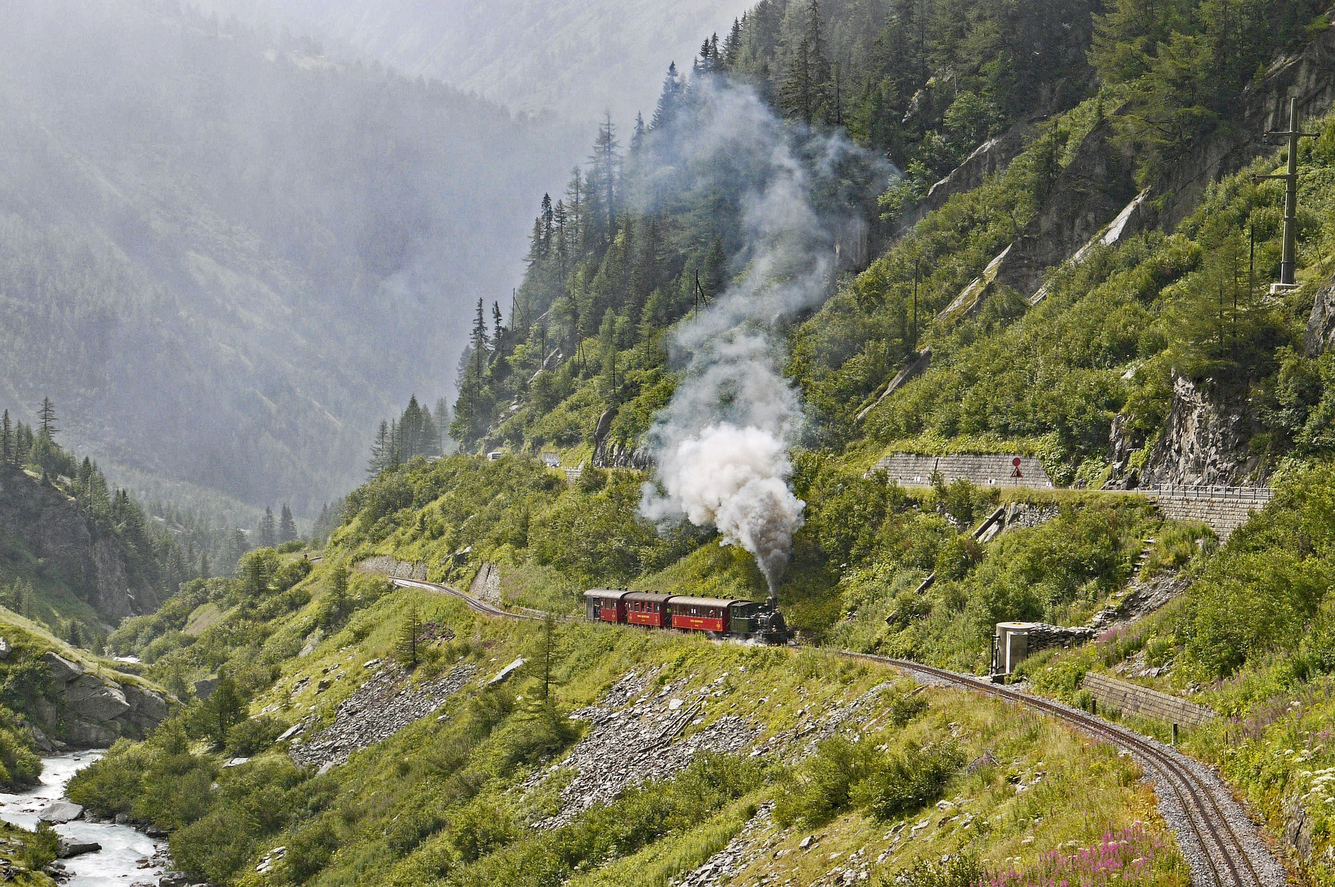
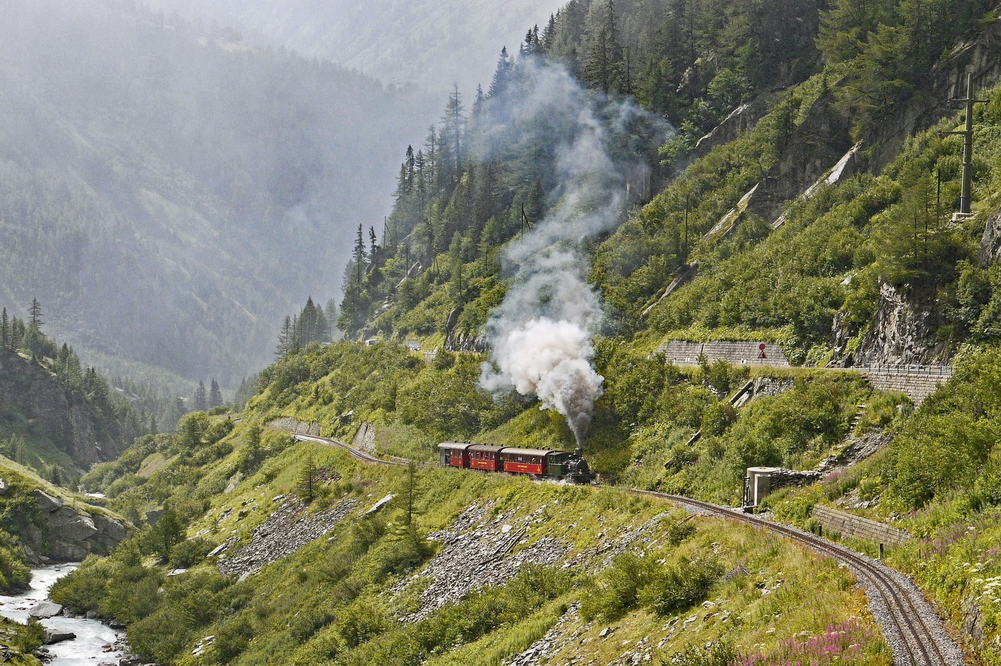
改路徑，壓縮圖檔

diff --git a/src/views/User/UserLike.vue b/src/views/User/UserLike.vue
@@ -57,7 +57,7 @@
         </template>
         <template v-else-if="checkedItem == '行程'">
           <div class="card">
-            <router-link :to="`/booking-info2/${item.id}`">
+            <router-link :to="`/booking-info/${item.id}`">
               <div class="cradPic">
                 <Images :imgURL="`${item.image}`" :alt="`${item.title}`" />
                 <!-- <img :src="item.image" :alt="item.title"> -->

diff --git a/src/views/User/UserOrder.vue b/src/views/User/UserOrder.vue
@@ -89,7 +89,7 @@
           </template>
           <template v-else-if="checkedItem == '行程'">
             <div class="card">
-              <router-link :to="`/booking-info2/${item.id}`">
+              <router-link :to="`/booking-info/${item.id}`">
                 <div class="cradPic">
                   <Images :imgURL="`${item.image}`" :alt="`${item.title}`" />
                 </div>
